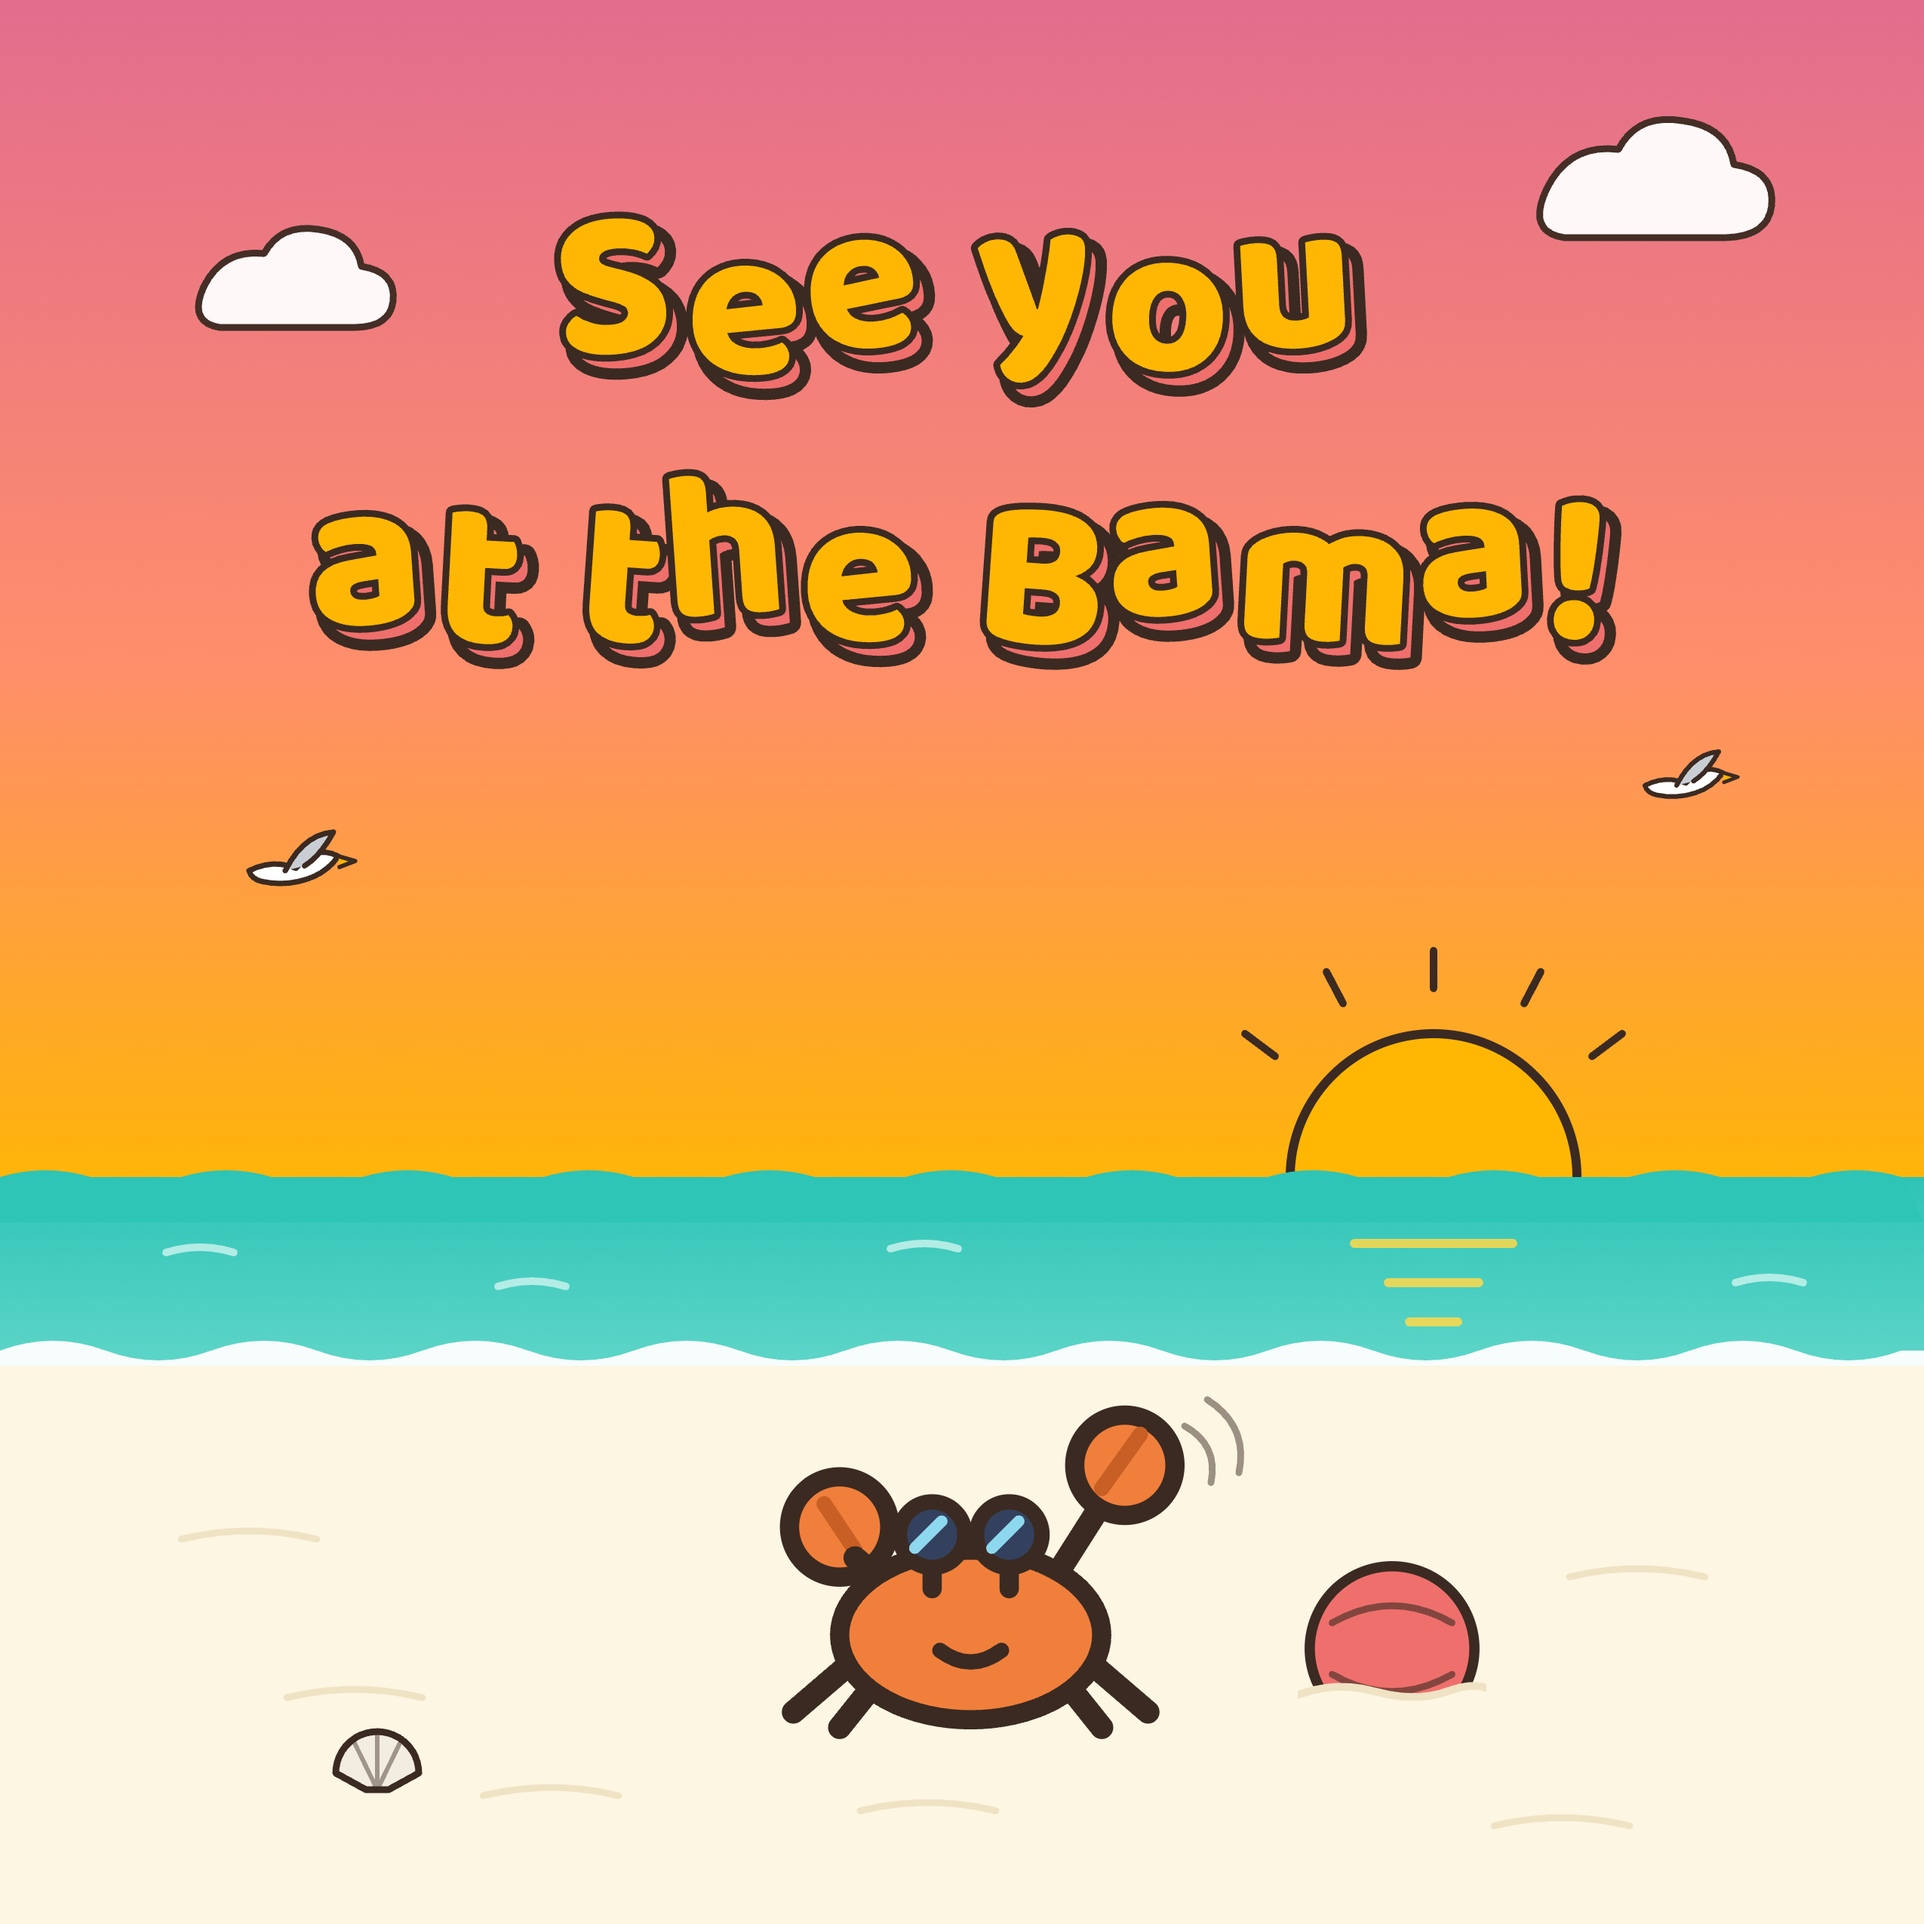
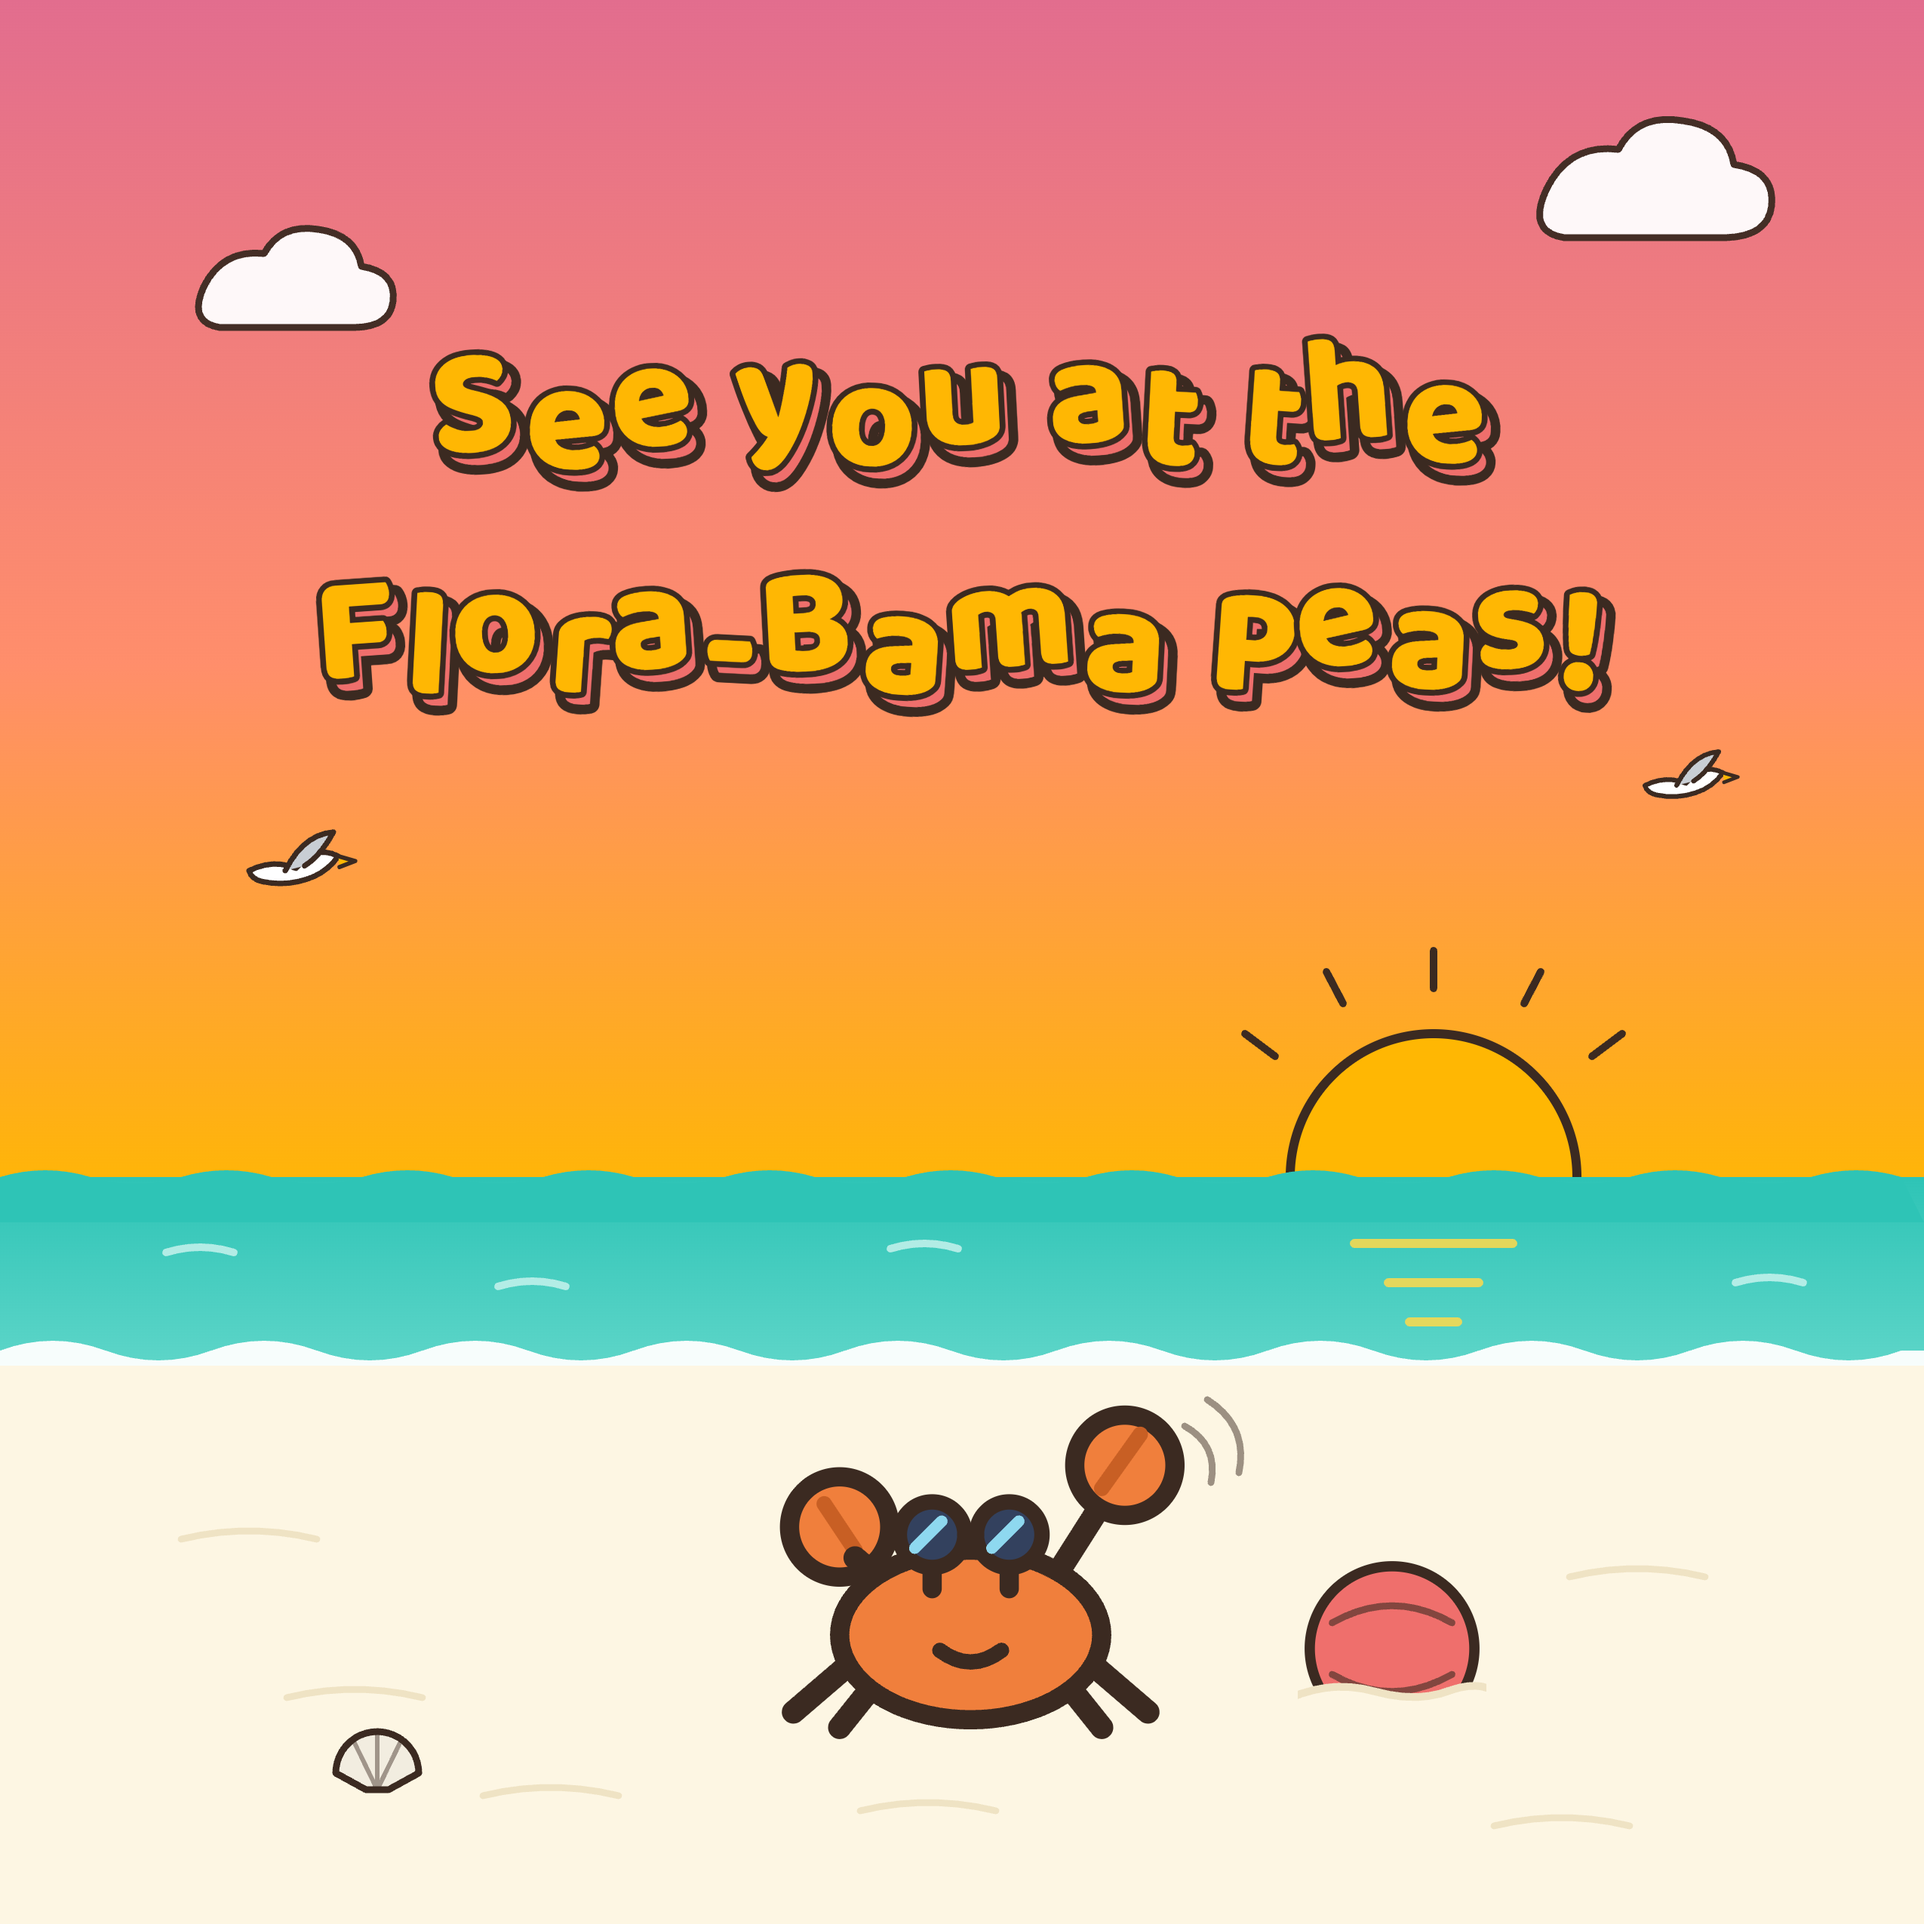
Back cover: change goodbye to 'See you at the Flora-Bama Peas!'
Reflowed to two balanced hand-lettered lines (font 200) so the longer
line stays clear of the clouds and setting sun. Updated book.md to match.

Changed region(s): [[0.1549, 0.0929, 0.8675, 0.3718]]

diff --git a/assets/pages/19-back-cover.html b/assets/pages/19-back-cover.html
@@ -107,18 +107,18 @@
   <svg class="layer" viewBox="0 0 2550 2550" xmlns="http://www.w3.org/2000/svg">
     <g font-family="'Baloo 2', sans-serif" font-weight="800" text-anchor="middle">
       <!-- coral sticker shadow -->
-      <g fill="#ef6f6c" stroke="#3b2a21" stroke-width="30" stroke-linejoin="round" paint-order="stroke" transform="translate(14 18)">
-        <text x="1275" y="470" font-size="280" letter-spacing="10"
-              dy="0 18 -26 24 -28 26 -22" rotate="-4 3 -3 4 -4 3 -3">See you</text>
-        <text x="1275" y="830" font-size="280" letter-spacing="10"
-              dy="0 16 -24 22 -26 24 -22 24 -26 24 -24 22" rotate="-4 3 -3 4 -4 3 -3 4 -4 3 -3 4">at the Bama!</text>
+      <g fill="#ef6f6c" stroke="#3b2a21" stroke-width="26" stroke-linejoin="round" paint-order="stroke" transform="translate(12 16)">
+        <text x="1275" y="600" font-size="200" letter-spacing="8"
+              dy="0 16 -24 22 -26 24 -22 24 -26 24 -24 22 -26 24" rotate="-4 3 -3 4 -4 3 -3 4 -4 3 -3 4 -4 3">See you at the</text>
+        <text x="1275" y="900" font-size="200" letter-spacing="8"
+              dy="0 16 -24 22 -26 24 -22 24 -26 24 -24 22 -26 24 -22 24" rotate="-4 3 -3 4 -4 3 -3 4 -4 3 -3 4 -4 3 -3 4">Flora-Bama Peas!</text>
       </g>
       <!-- sunshine main letters -->
-      <g fill="#ffb703" stroke="#3b2a21" stroke-width="18" stroke-linejoin="round" paint-order="stroke">
-        <text x="1275" y="470" font-size="280" letter-spacing="10"
-              dy="0 18 -26 24 -28 26 -22" rotate="-4 3 -3 4 -4 3 -3">See you</text>
-        <text x="1275" y="830" font-size="280" letter-spacing="10"
-              dy="0 16 -24 22 -26 24 -22 24 -26 24 -24 22" rotate="-4 3 -3 4 -4 3 -3 4 -4 3 -3 4">at the Bama!</text>
+      <g fill="#ffb703" stroke="#3b2a21" stroke-width="16" stroke-linejoin="round" paint-order="stroke">
+        <text x="1275" y="600" font-size="200" letter-spacing="8"
+              dy="0 16 -24 22 -26 24 -22 24 -26 24 -24 22 -26 24" rotate="-4 3 -3 4 -4 3 -3 4 -4 3 -3 4 -4 3">See you at the</text>
+        <text x="1275" y="900" font-size="200" letter-spacing="8"
+              dy="0 16 -24 22 -26 24 -22 24 -26 24 -24 22 -26 24 -22 24" rotate="-4 3 -3 4 -4 3 -3 4 -4 3 -3 4 -4 3 -3 4">Flora-Bama Peas!</text>
       </g>
     </g>
 

diff --git a/book.md b/book.md
@@ -235,6 +235,6 @@
 
 ## Back cover (optional)
 
-**Text:** See you at the Bama!
+**Text:** See you at the Flora-Bama Peas!
 
 **Illustration:** The crab alone on the sand, waving, tiny sunglasses on, a bocce ball beside him, sunset sky.
